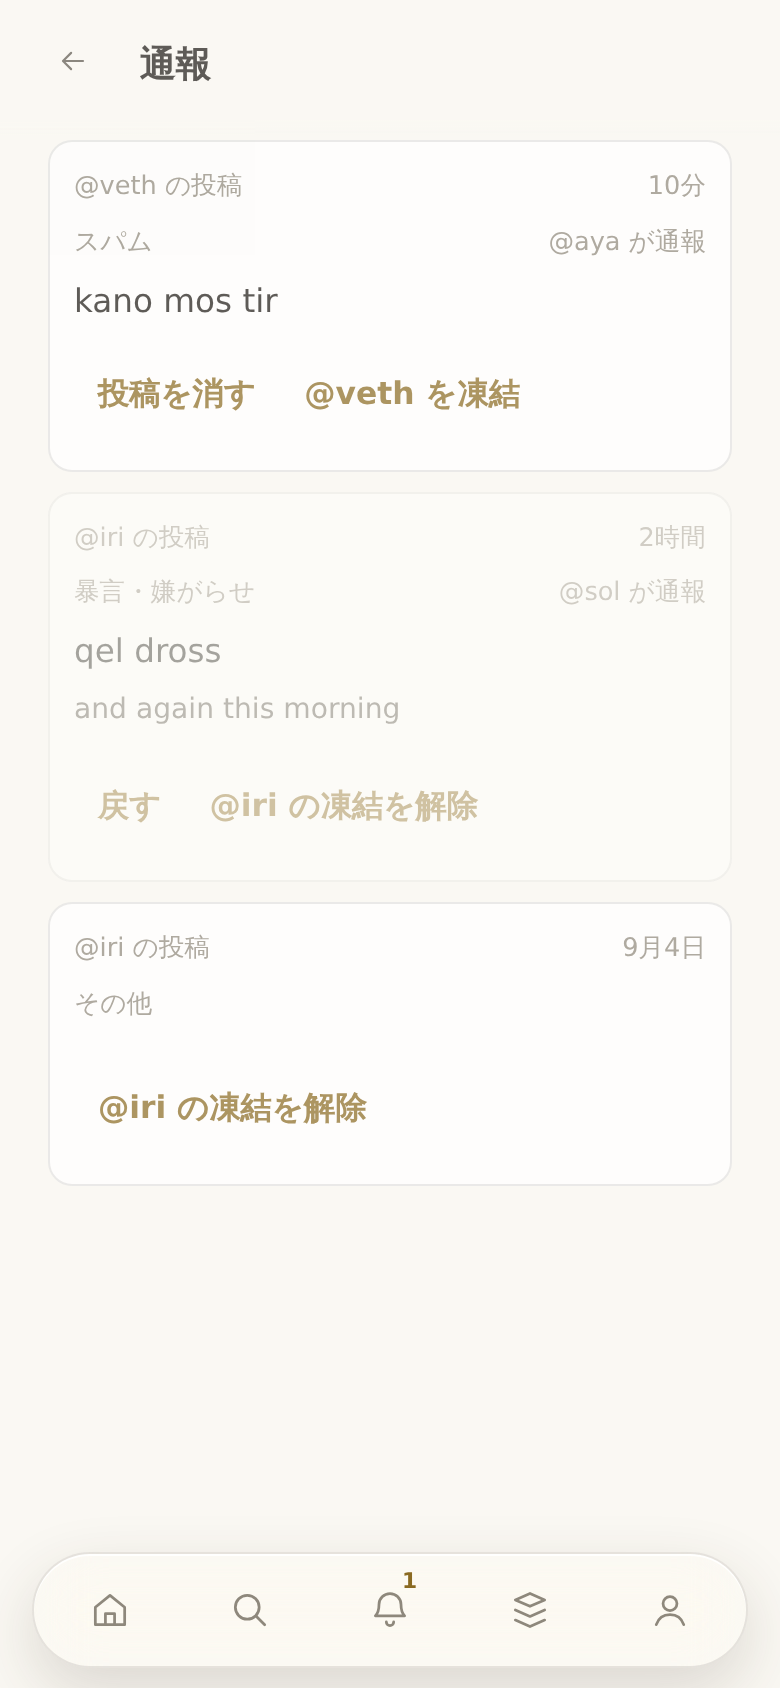
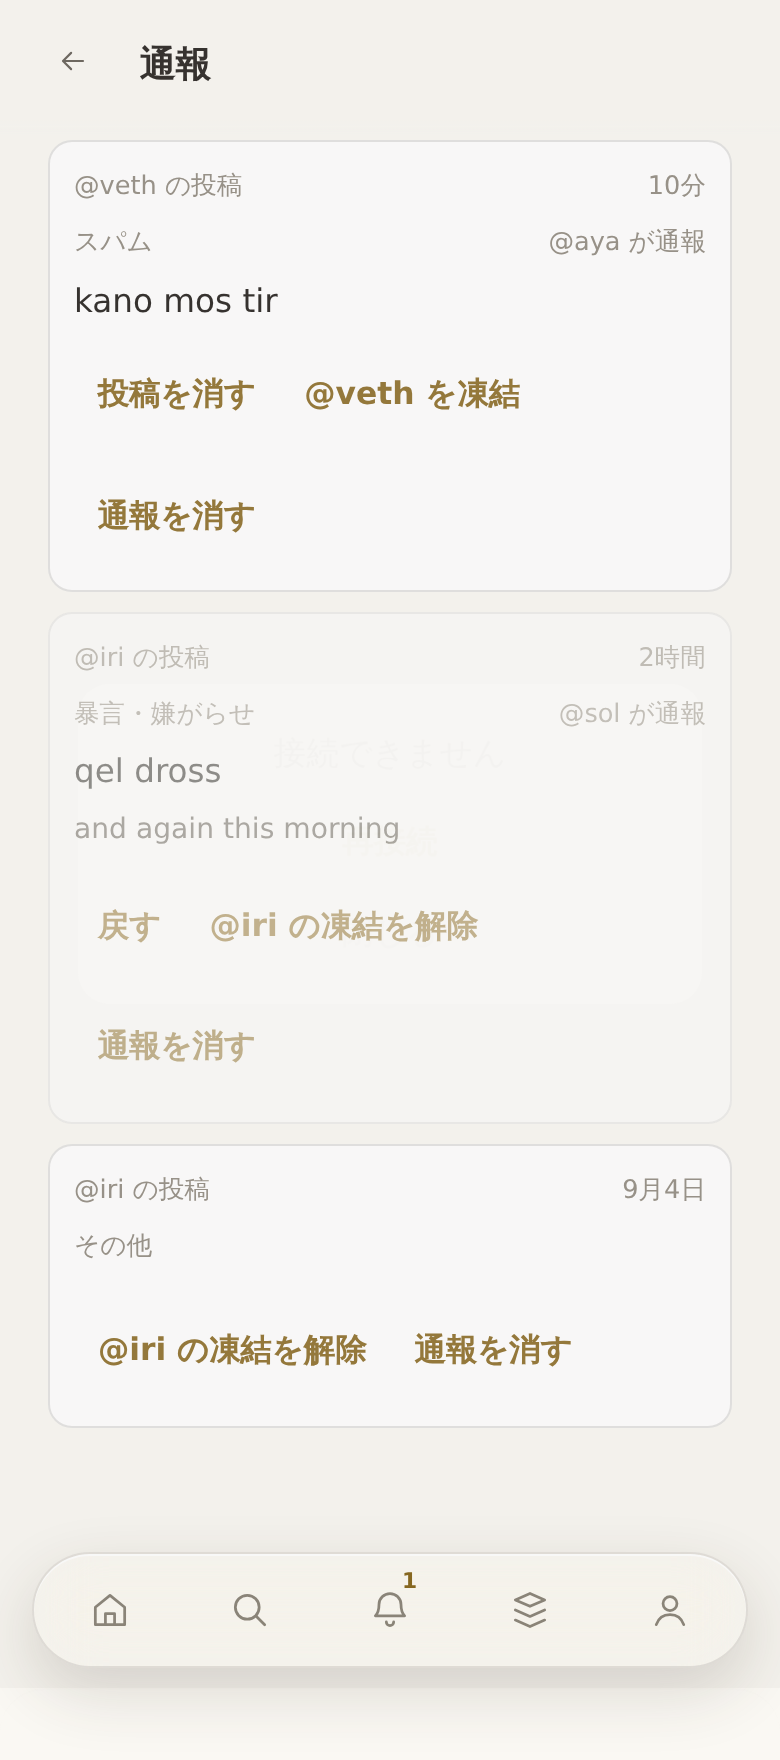
通報そのものを消す

diff --git a/www/mod.js b/www/mod.js
@@ -87,6 +87,36 @@ function modIn(uid){
   netUnban(uid, function(){ modMarkOut(uid, false); render(); },
            function(d, st){ toast(netWhy(d, st)); });
 }
+/* AND THE THIRD ANSWER: THERE WAS NOTHING WRONG.
+   「通報で問題なかったらその通報が消せるようにしてほしい」 OWNER 2026-09-05.
+
+   The two above are about the POST and the person; this is about the report,
+   and it is the only thing on this screen that really deletes -- a post comes
+   back and an account comes back, and a row that has gone has gone. So it
+   asks first, and the word on the button it asks with is what it does.
+
+   The row is taken off MODS by hand rather than by asking the server again:
+   the list is what came back, one row of it is now not there, and a second
+   read to learn that is a question whose answer is already known. Two reports
+   about one post are two rows and this removes the one that was pressed --
+   modMark() marks every row about a post because taking a post down answers
+   all of them, and 「there was nothing wrong with this report」 answers one.
+
+   A failure goes the same road every other failed request goes: netPop(),
+   with 再接続 running this same press. 「エラーになったらエラー用のポップ出して
+   再更新とかおさせればいい」 OWNER 2026-09-05. */
+function modDrop(id){
+  popAsk(t('mod.drop.sure'), function(){ modDropGo(id); }, t('mod.drop.yes'));
+}
+function modDropGo(id){
+  netReportDrop(id, function(){ modForget(id); render(); },
+    function(d, st){ netPop(d, st, '', function(){ modDropGo(id); }); });
+}
+function modForget(id){
+  var out=[], i, ms=MODS||[];
+  for(i=0;i<ms.length;i++) if(ms[i].id!==id) out.push(ms[i]);
+  MODS=out;
+}
 function modWhyOf(uid){
   var i;
   for(i=0;i<((MODS||[]).length);i++) if(MODS[i].uid===uid) return MODS[i].why;
@@ -143,6 +173,12 @@ function modRow(r){
           DO(r.out? 'modIn' : 'modOut', [r.uid]) + '>'+
           esc(t(r.out? 'mod.in' : 'mod.out', r.who))+'</button>'
       : '')+
+    /* And the answer that is about neither of them: the report was looked at
+       and there was nothing wrong. `.ghost` and not `.bad` -- what it takes
+       away is the card in front of you, and the red is for the two buttons
+       that reach somebody else's account. */
+    '<button class="btn ghost"' + DO('modDrop', [r.id]) + '>'+
+      esc(t('mod.drop'))+'</button>'+
     '</div>';
 }
 function vMod(){

diff --git a/www/net.js b/www/net.js
@@ -2538,6 +2538,24 @@ function netShow(pid, ok, bad){
   netSend('POST', '/rest/v1/rpc/post_show', {p:pid},
           SESS.at, function(){ ok(); }, bad);
 }
+/* AND THE REPORT ITSELF, WHICH IS THE ONE THING HERE THAT REALLY DELETES.
+   「通報で問題なかったらその通報が消せるようにしてほしい」 OWNER 2026-09-05.
+
+   The two above take a post down and put it back, and both are reversible
+   because a report is about somebody and a decision about somebody has to be
+   one you can look at again. This is the other answer: there was nothing
+   wrong, so there is nothing left to keep, and the row goes.
+
+   `r` and not `p`, and a number and not a uuid: report.id is `generated
+   always as identity` where post and profile are uuid, so the two do not take
+   the same kind of name however alike they read -- supabase/schema.sql at
+   report_drop(). is_staff() is asked there and not here: this file is a
+   suggestion and the function is the wall. */
+function netReportDrop(id, ok, bad){
+  if(!netSignedIn() || !id){ bad(null, 0); return; }
+  netSend('POST', '/rest/v1/rpc/report_drop', {r:id},
+          SESS.at, function(){ ok(); }, bad);
+}
 /* And the person, which is the other half of answering a report: taking the
    post down leaves whoever wrote it free to write it again. Nothing of theirs
    is deleted and they are not signed out -- is_member() in schema.sql stops

diff --git a/www/i18n/ru.js b/www/i18n/ru.js
@@ -1052,6 +1052,9 @@ defLang('ru', (function(){
       "mod.by"          : "Пожаловался @{0}",
       "mod.down"            : "Удалить пост",
       "mod.up"              : "Вернуть",
+      "mod.drop"              : "Отклонить жалобу",
+      "mod.drop.sure"              : "Удалить эту жалобу?",
+      "mod.drop.yes"              : "Удалить",
       "mod.out"             : "Заблокировать @{0}",
       "mod.in"              : "Разблокировать @{0}",
       "mod.out.sure"        : "Заблокировать этот аккаунт?",

diff --git a/www/i18n/ja.js b/www/i18n/ja.js
@@ -954,6 +954,9 @@ defLang('ja', (function(){
       'mod.by'        : "@{0} が通報",
       'mod.down'          : "投稿を消す",
       'mod.up'            : "戻す",
+      'mod.drop'            : "通報を消す",
+      'mod.drop.sure'            : "この通報を消しますか？",
+      'mod.drop.yes'            : "消す",
       'mod.out'           : "@{0} を凍結",
       'mod.in'            : "@{0} の凍結を解除",
       'mod.out.sure'      : "このアカウントを凍結しますか？",

diff --git a/www/i18n/de.js b/www/i18n/de.js
@@ -1027,6 +1027,9 @@ defLang('de', (function(){
       "mod.by"         : "Gemeldet von @{0}",
       "mod.down"           : "Beitrag löschen",
       "mod.up"             : "Wiederherstellen",
+      "mod.drop"             : "Meldung verwerfen",
+      "mod.drop.sure"             : "Diese Meldung löschen?",
+      "mod.drop.yes"             : "Löschen",
       "mod.out"            : "@{0} sperren",
       "mod.in"             : "Sperre für @{0} aufheben",
       "mod.out.sure"       : "Dieses Konto sperren?",

diff --git a/www/i18n/es.js b/www/i18n/es.js
@@ -998,6 +998,9 @@ defLang('es', (function(){
       "mod.by"         : "Reportado por @{0}",
       "mod.down"           : "Eliminar publicación",
       "mod.up"             : "Restaurar",
+      "mod.drop"             : "Descartar el reporte",
+      "mod.drop.sure"             : "¿Eliminar este reporte?",
+      "mod.drop.yes"             : "Eliminar",
       "mod.out"            : "Suspender a @{0}",
       "mod.in"             : "Reactivar a @{0}",
       "mod.out.sure"       : "¿Suspender esta cuenta?",

diff --git a/www/i18n/it.js b/www/i18n/it.js
@@ -1039,6 +1039,9 @@ defLang('it', (function(){
       "mod.by"         : "Segnalato da @{0}",
       "mod.down"           : "Elimina il post",
       "mod.up"             : "Ripristina",
+      "mod.drop"             : "Ignora la segnalazione",
+      "mod.drop.sure"             : "Eliminare questa segnalazione?",
+      "mod.drop.yes"             : "Elimina",
       "mod.out"            : "Sospendi @{0}",
       "mod.in"             : "Riattiva @{0}",
       "mod.out.sure"       : "Sospendere questo account?",

diff --git a/www/i18n/fr.js b/www/i18n/fr.js
@@ -1086,6 +1086,9 @@ defLang('fr', (function(){
       "mod.by"         : "Signalé par @{0}",
       "mod.down"           : "Supprimer le post",
       "mod.up"             : "Restaurer",
+      "mod.drop"             : "Écarter le signalement",
+      "mod.drop.sure"             : "Supprimer ce signalement ?",
+      "mod.drop.yes"             : "Supprimer",
       "mod.out"            : "Suspendre @{0}",
       "mod.in"             : "Réactiver @{0}",
       "mod.out.sure"       : "Suspendre ce compte ?",

diff --git a/www/i18n/ko.js b/www/i18n/ko.js
@@ -1213,6 +1213,9 @@ defLang('ko', (function(){
       "mod.by"         : "@{0} 신고",
       "mod.down"           : "게시물 삭제",
       "mod.up"             : "되돌리기",
+      "mod.drop"             : "신고 지우기",
+      "mod.drop.sure"             : "이 신고를 삭제할까요?",
+      "mod.drop.yes"             : "삭제",
       "mod.out"            : "@{0} 정지",
       "mod.in"             : "@{0} 정지 해제",
       "mod.out.sure"       : "이 계정을 정지할까요?",

diff --git a/www/i18n/pt.js b/www/i18n/pt.js
@@ -1045,6 +1045,9 @@ defLang('pt', (function(){
       "mod.by"         : "Denunciado por @{0}",
       "mod.down"           : "Excluir publicação",
       "mod.up"             : "Restaurar",
+      "mod.drop"             : "Descartar denúncia",
+      "mod.drop.sure"             : "Excluir esta denúncia?",
+      "mod.drop.yes"             : "Excluir",
       "mod.out"            : "Suspender @{0}",
       "mod.in"             : "Reativar @{0}",
       "mod.out.sure"       : "Suspender esta conta?",

diff --git a/www/i18n/zh.js b/www/i18n/zh.js
@@ -1043,6 +1043,9 @@ defLang('zh', (function(){
       "mod.by"         : "@{0} 举报",
       "mod.down"           : "删除该帖",
       "mod.up"             : "恢复",
+      "mod.drop"             : "忽略该举报",
+      "mod.drop.sure"             : "要删除这条举报吗？",
+      "mod.drop.yes"             : "删除",
       "mod.out"            : "冻结 @{0}",
       "mod.in"             : "解除冻结 @{0}",
       "mod.out.sure"       : "要冻结这个账号吗？",

diff --git a/www/i18n/en.js b/www/i18n/en.js
@@ -953,6 +953,9 @@ defLang('en', (function(){
       'mod.by'        : "Reported by @{0}",
       'mod.down'          : "Delete post",
       'mod.up'            : "Put back",
+      'mod.drop'            : "Dismiss report",
+      'mod.drop.sure'            : "Delete this report?",
+      'mod.drop.yes'            : "Delete",
       'mod.out'           : "Suspend @{0}",
       'mod.in'            : "Unsuspend @{0}",
       'mod.out.sure'      : "Suspend this account?",
